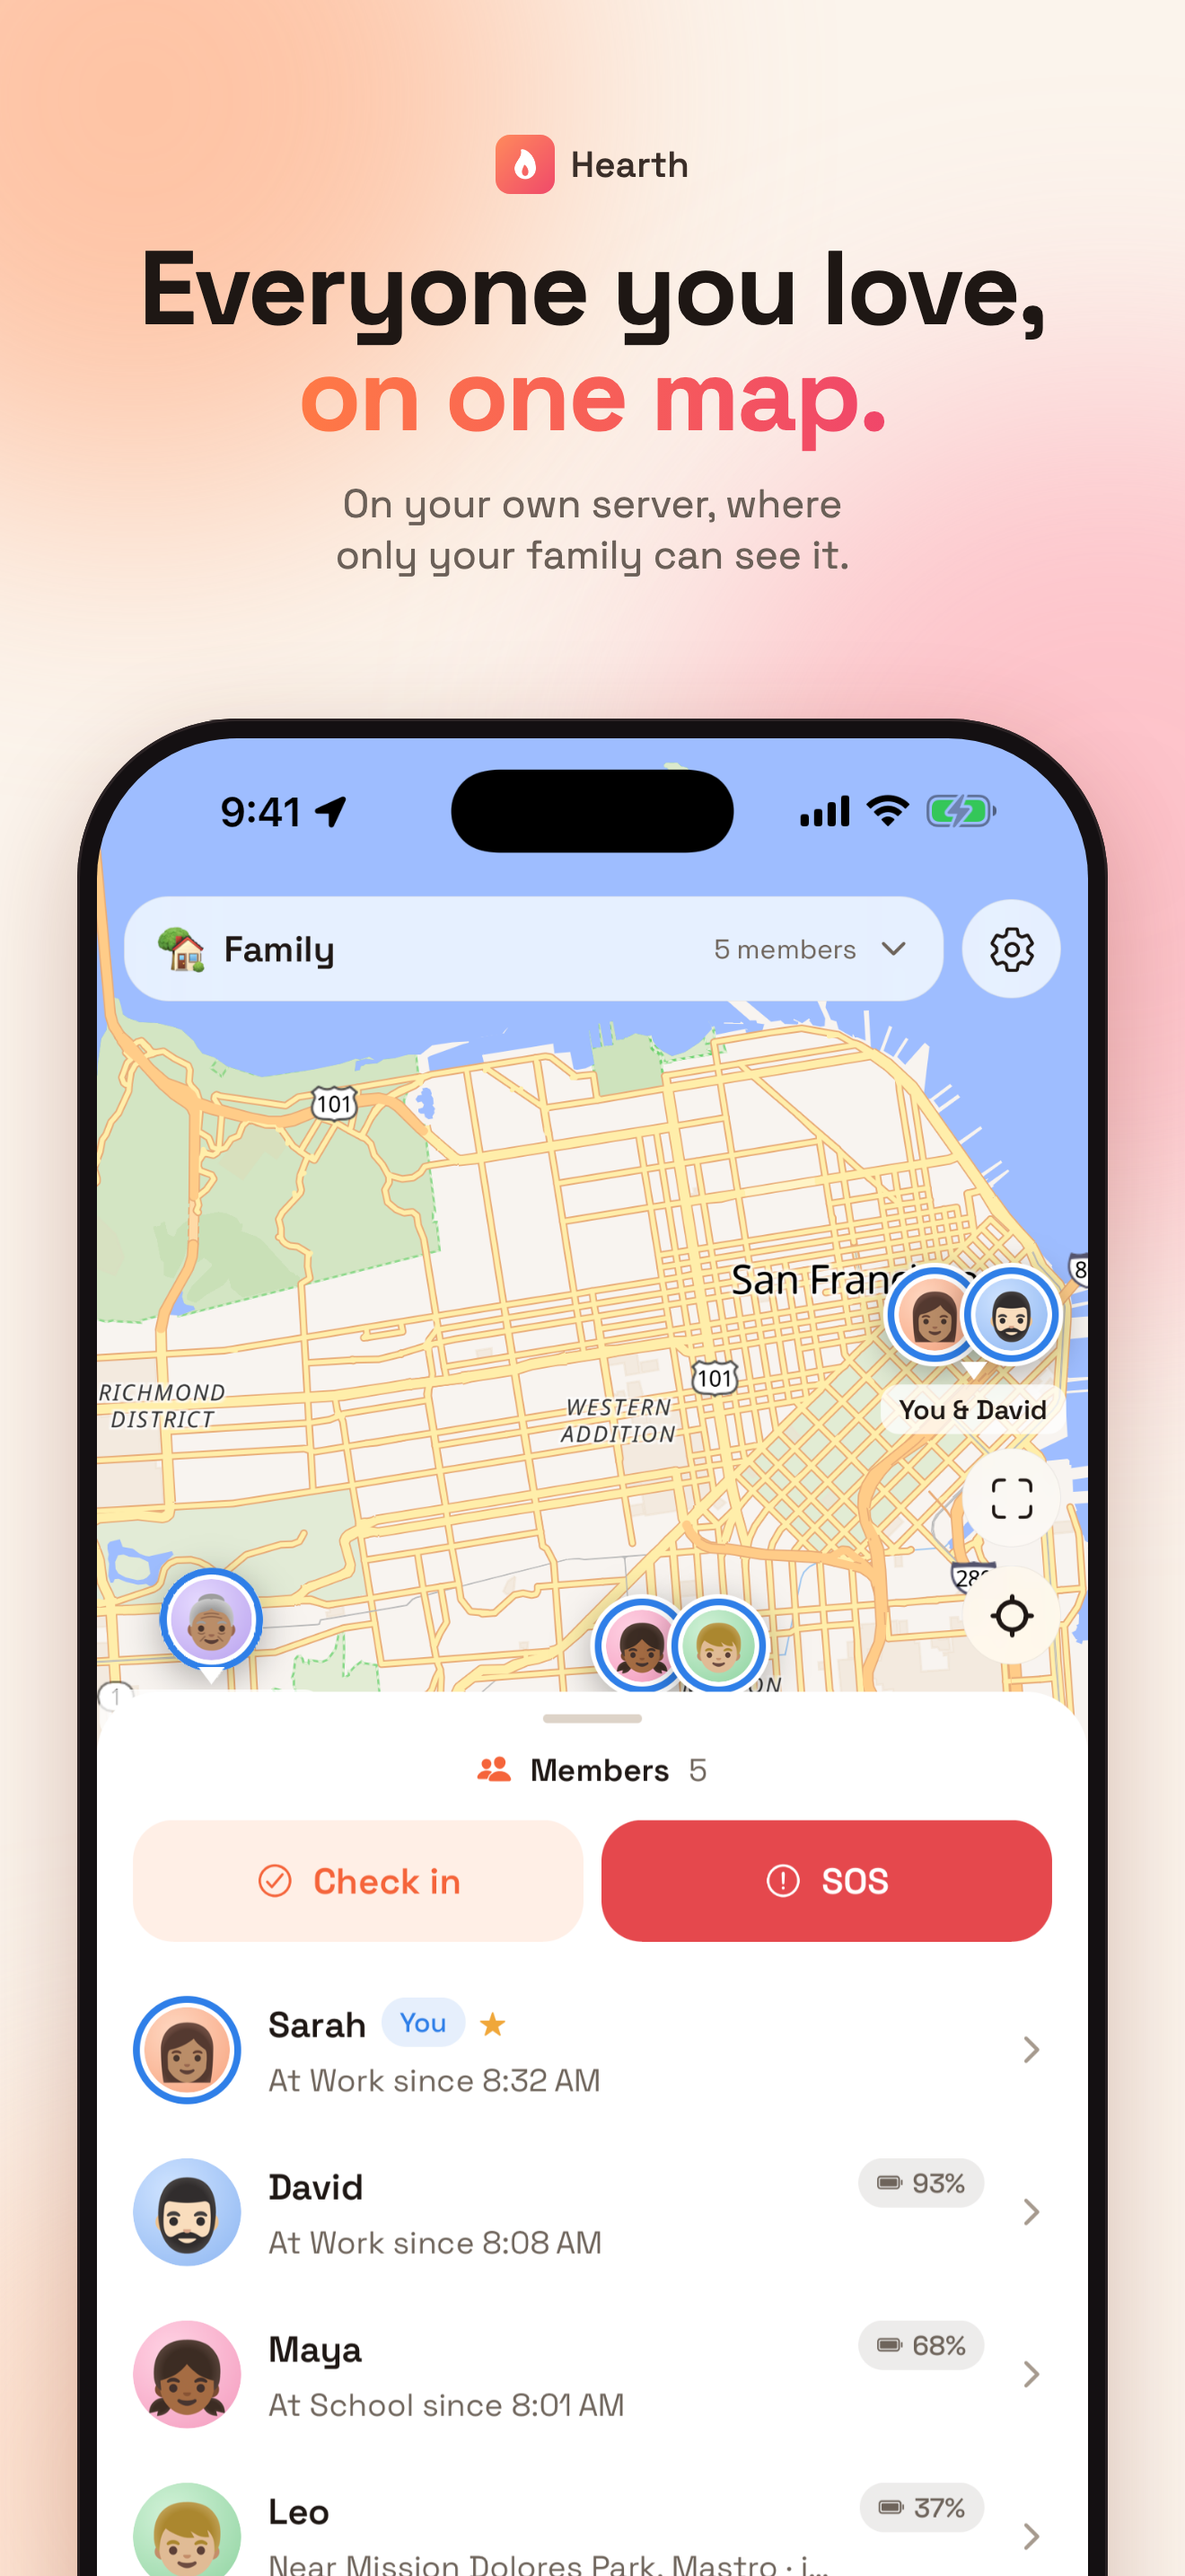
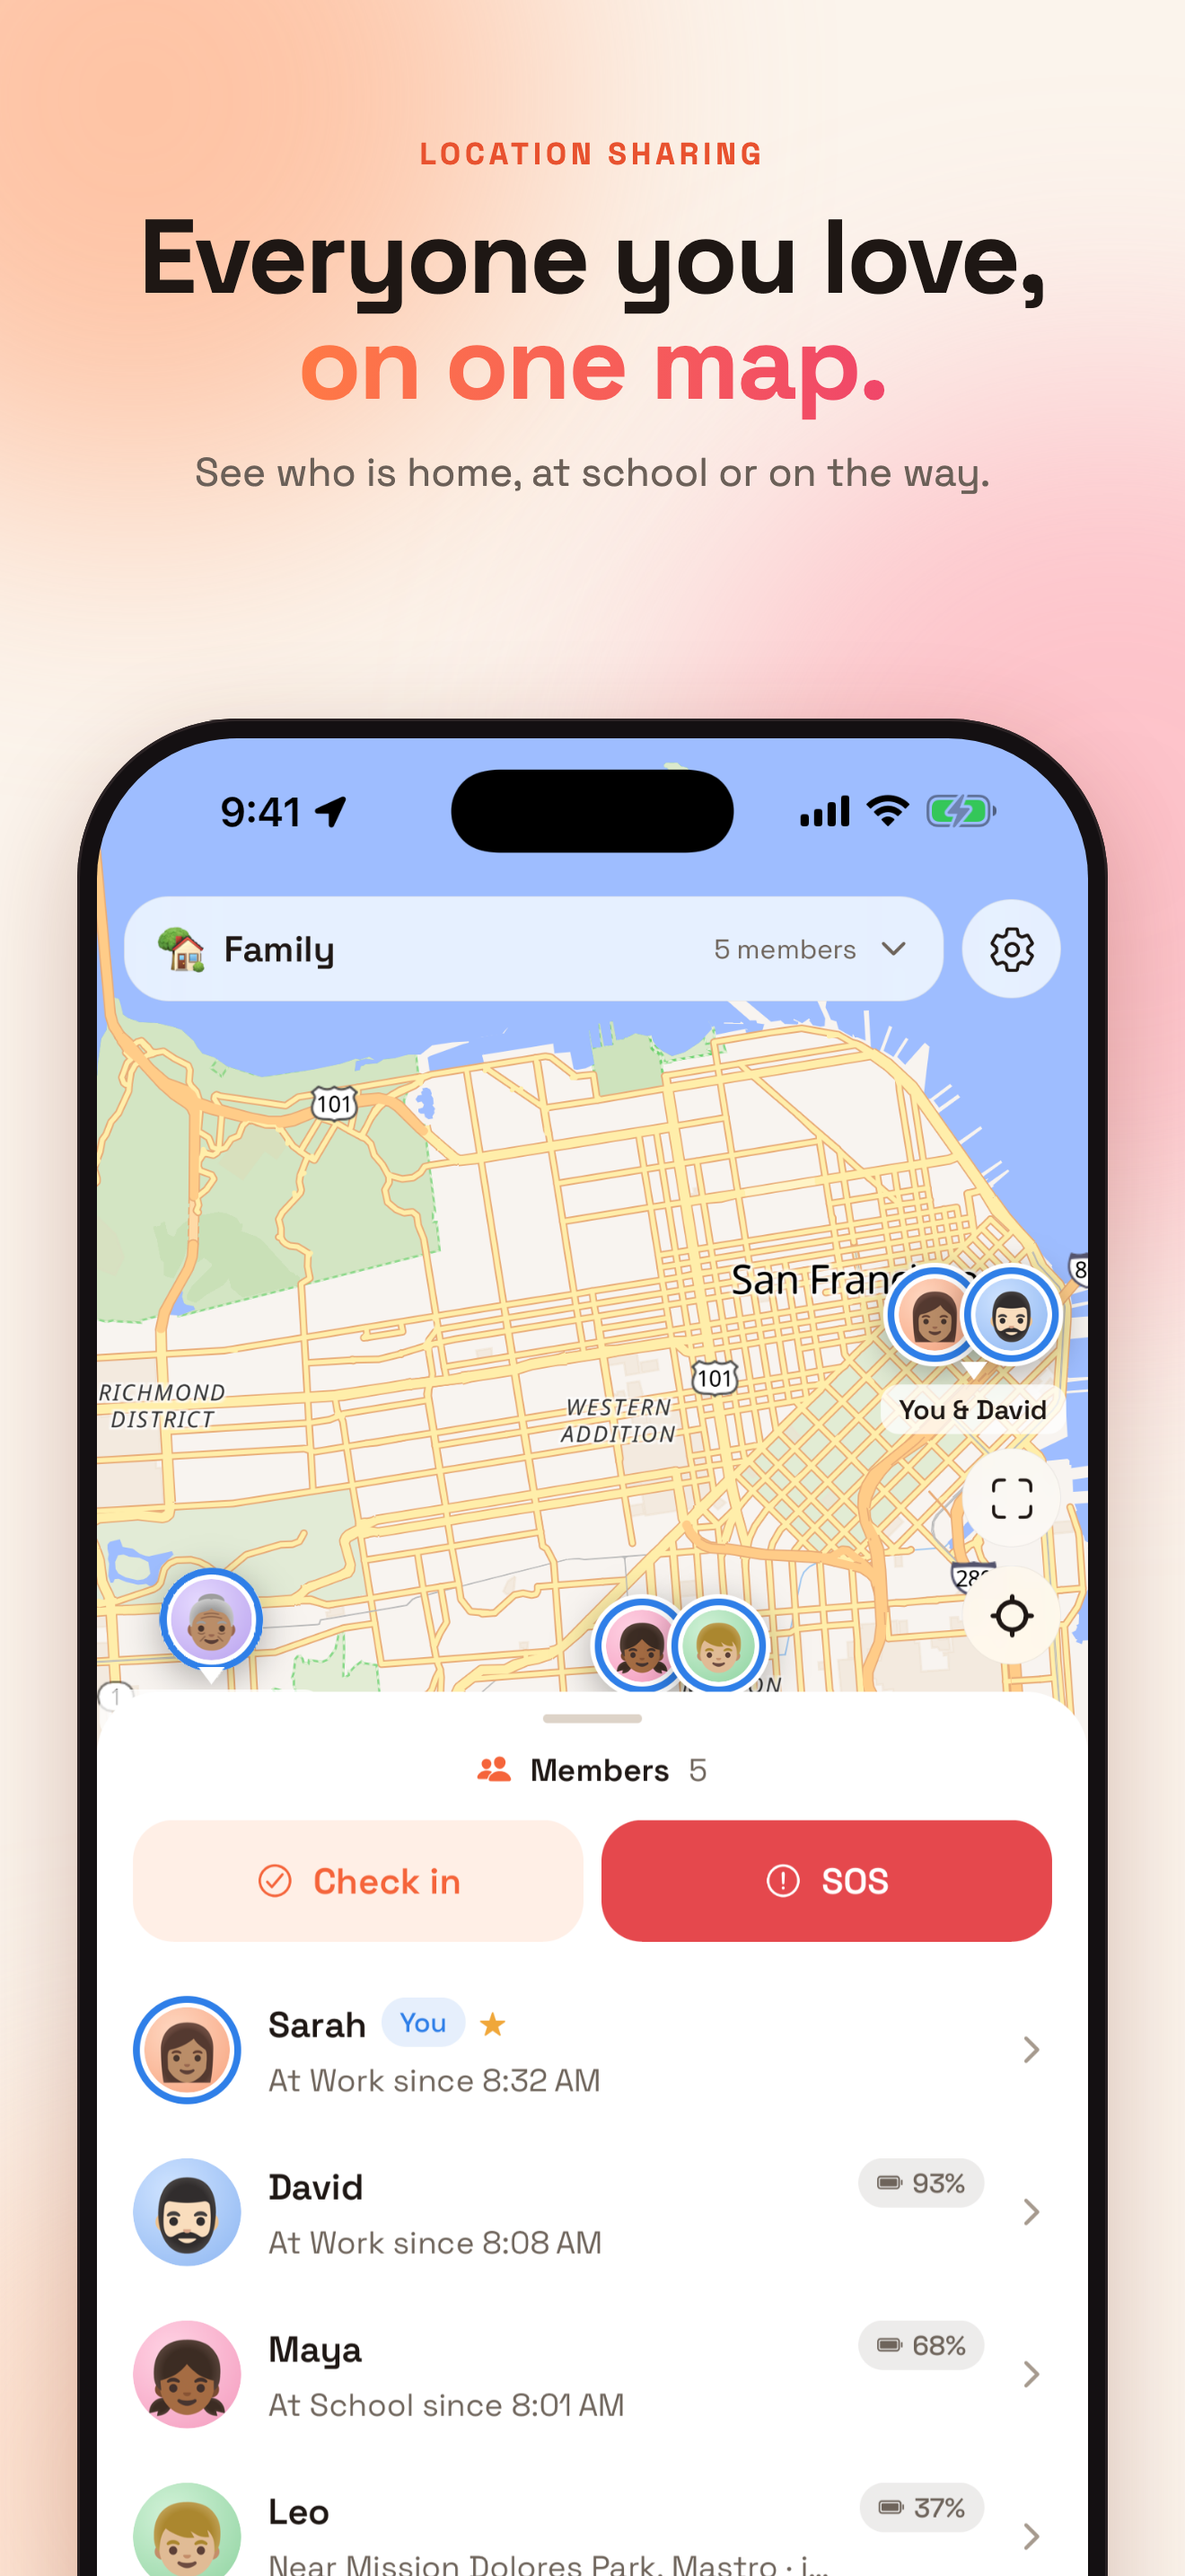
docs(repo): position the listing as family safety
Family safety in Social Networking and Lifestyle, with privacy as the
difference. Every shot gains a feature label, an SOS shot joins third, and
the landing page stops calling Hearth a tracker.

Changed region(s): [[0.1242, 0.031, 0.9008, 0.2172]]

diff --git a/web/index.html b/web/index.html
@@ -6,14 +6,14 @@
     <title>Hearth</title>
     <meta
       name="description"
-      content="Family location sharing you host yourself. An open-source family tracker where the map, the history and the alerts live on your server."
+      content="Family location sharing you host yourself. Open-source family safety where the map, the history and the alerts live on your server."
     />
     <meta name="theme-color" content="#F5643A" />
 
     <meta property="og:title" content="Hearth: family location sharing you host yourself" />
     <meta
       property="og:description"
-      content="An open-source family tracker. The map, the history and the alerts live on your server, not somebody else's."
+      content="Open-source family safety. The map, the history and the alerts live on your server, not somebody else's."
     />
     <meta property="og:type" content="website" />
 
@@ -525,9 +525,9 @@
         <span class="kicker"><span class="pip" aria-hidden="true"></span> Alpha · AGPL-3.0</span>
         <h1>Know where your family is. <em>Nobody else does.</em></h1>
         <p class="lede prose">
-          Every commercial family tracker keeps your positions on its own servers, under a privacy
-          policy you do not control and they can change. Hearth has no servers. It runs on yours,
-          and there is nobody on the other end to sell anything to.
+          Every commercial family safety app keeps your positions on its own servers, under a
+          privacy policy you do not control and they can change. Hearth has no servers. It runs on
+          yours, and there is nobody on the other end to sell anything to.
         </p>
         <div class="actions">
           <a class="btn btn-solid" href="#self-host">
@@ -566,7 +566,7 @@
       <section id="features">
         <div class="wrap">
           <p class="eyebrow">What it does</p>
-          <h2>Everything a family tracker should do.</h2>
+          <h2>Everything a family safety app should do.</h2>
           <p class="sub prose">
             None of it phones home. Every feature below runs against the server you control.
           </p>
@@ -710,11 +710,12 @@
       <section id="privacy">
         <div class="wrap">
           <p class="eyebrow">Why bother</p>
-          <h2>Untrackable by design.</h2>
+          <h2>Your data stays home.</h2>
           <p class="sub prose">
-            A tracker is only as private as whoever runs it. There is no company running Hearth, no
-            account with us, and no analytics, ad network or crash reporter anywhere in the app.
-            When you stop running the server, the data is gone, because it was only ever yours.
+            A family safety app is only as private as whoever runs it. There is no company running
+            Hearth, no account with us, and no analytics, ad network or crash reporter anywhere in
+            the app. When you stop running the server, the data is gone, because it was only ever
+            yours.
           </p>
 
           <ul class="promises">
@@ -740,7 +741,7 @@
             </li>
             <li>
               <b>The GPS sleeps when you do</b>
-              Tracking runs while you are moving and stops once you park, which is most of the
+              Location updates run while you are moving and stop once you park, which is most of the
               battery story on a phone.
             </li>
             <li>

diff --git a/store-assets/app-store/listing.md b/store-assets/app-store/listing.md
@@ -11,8 +11,8 @@ itself is in `metadata/en-US/`, one file per field, in the layout fastlane
 | Name               | `metadata/en-US/name.txt`              |
 | Subtitle           | `metadata/en-US/subtitle.txt`          |
 | Bundle ID          | `com.binary.rewind.hearth`             |
-| Primary category   | Navigation                             |
-| Secondary category | Lifestyle                              |
+| Primary category   | Social Networking                      |
+| Secondary category | Navigation                             |
 | Content rights     | Does not contain third-party content   |
 | Privacy policy URL | `metadata/en-US/privacy_url.txt`       |
 | Support URL        | `metadata/en-US/support_url.txt`       |
@@ -21,8 +21,15 @@ itself is in `metadata/en-US/`, one file per field, in the layout fastlane
 | Price              | Free, no in-app purchases              |
 | Devices            | iPhone only. `supportsTablet` is false |
 
-"Hearth" alone is likely taken, which is why the name carries "Family
-Locator". If Apple rejects the name, "Hearth Family Map" is 17 characters.
+The biggest family safety apps list in Social Networking, and that is
+where parents browse for this kind of app, so Hearth sits beside it. The name
+leads with "Private Family Safety" because "family safety" is what people
+search for, and "private" is the difference. Listing copy never calls Hearth a
+tracker. "tracker" stays in the hidden keywords only, because people search
+for it.
+
+"Hearth" alone is likely taken, which is why the name carries more. If Apple
+rejects it, "Hearth Family Safety" is 20 characters.
 
 ## Age rating
 
@@ -93,7 +100,7 @@ repeats it.
 
 ## Screenshots
 
-`screenshots/iphone-6.9-1320x2868/`, all nine, in file order. Apple scales the
+`screenshots/iphone-6.9-1320x2868/`, all ten, in file order. Apple scales the
 6.9 inch set down for every smaller iPhone, so no other size is needed.
 
 ## Version release notes

diff --git a/store-assets/play/listing.md b/store-assets/play/listing.md
@@ -5,19 +5,19 @@ Everything Play Console asks for that isn't an image. The listing text is in
 
 ## Main store listing
 
-| Field             | Value                                       |
-| ----------------- | ------------------------------------------- |
-| App name          | `metadata/en-US/title.txt`                  |
-| Short description | `metadata/en-US/short_description.txt`      |
-| Full description  | `metadata/en-US/full_description.txt`       |
-| App icon          | `graphics/icon_512x512.png`                 |
-| Feature graphic   | `graphics/feature-graphic_1024x500.png`     |
-| Phone screenshots | `screenshots/phone-1080x1920/`, all eight   |
-| Category          | Maps & Navigation                           |
-| Tags              | Family, Location, Safety (pick the closest) |
-| Email             | a contact address you are happy to publish  |
-| Website           | `https://github.com/Qureshi-DH/hearth`      |
-| Privacy policy    | `<your website>/privacy.html`               |
+| Field             | Value                                      |
+| ----------------- | ------------------------------------------ |
+| App name          | `metadata/en-US/title.txt`                 |
+| Short description | `metadata/en-US/short_description.txt`     |
+| Full description  | `metadata/en-US/full_description.txt`      |
+| App icon          | `graphics/icon_512x512.png`                |
+| Feature graphic   | `graphics/feature-graphic_1024x500.png`    |
+| Phone screenshots | `screenshots/phone-1080x1920/`, all eight  |
+| Category          | Lifestyle                                  |
+| Tags              | Family safety, Location sharing, Privacy   |
+| Email             | a contact address you are happy to publish |
+| Website           | `https://github.com/Qureshi-DH/hearth`     |
+| Privacy policy    | `<your website>/privacy.html`              |
 
 Tablet screenshots are optional. Leave them out.
 

diff --git a/store-assets/README.md b/store-assets/README.md
@@ -4,7 +4,7 @@ Everything the App Store and Google Play ask for, and the tools that make it.
 
 ```text
 app-store/
-  screenshots/iphone-6.9-1320x2868/   9 shots, upload in file order
+  screenshots/iphone-6.9-1320x2868/   10 shots, upload in file order
   graphics/icon_1024x1024.png         App Store icon, no alpha
   metadata/en-US/                     one file per listing field
   listing.md                          categories, age rating, App Privacy, review notes
